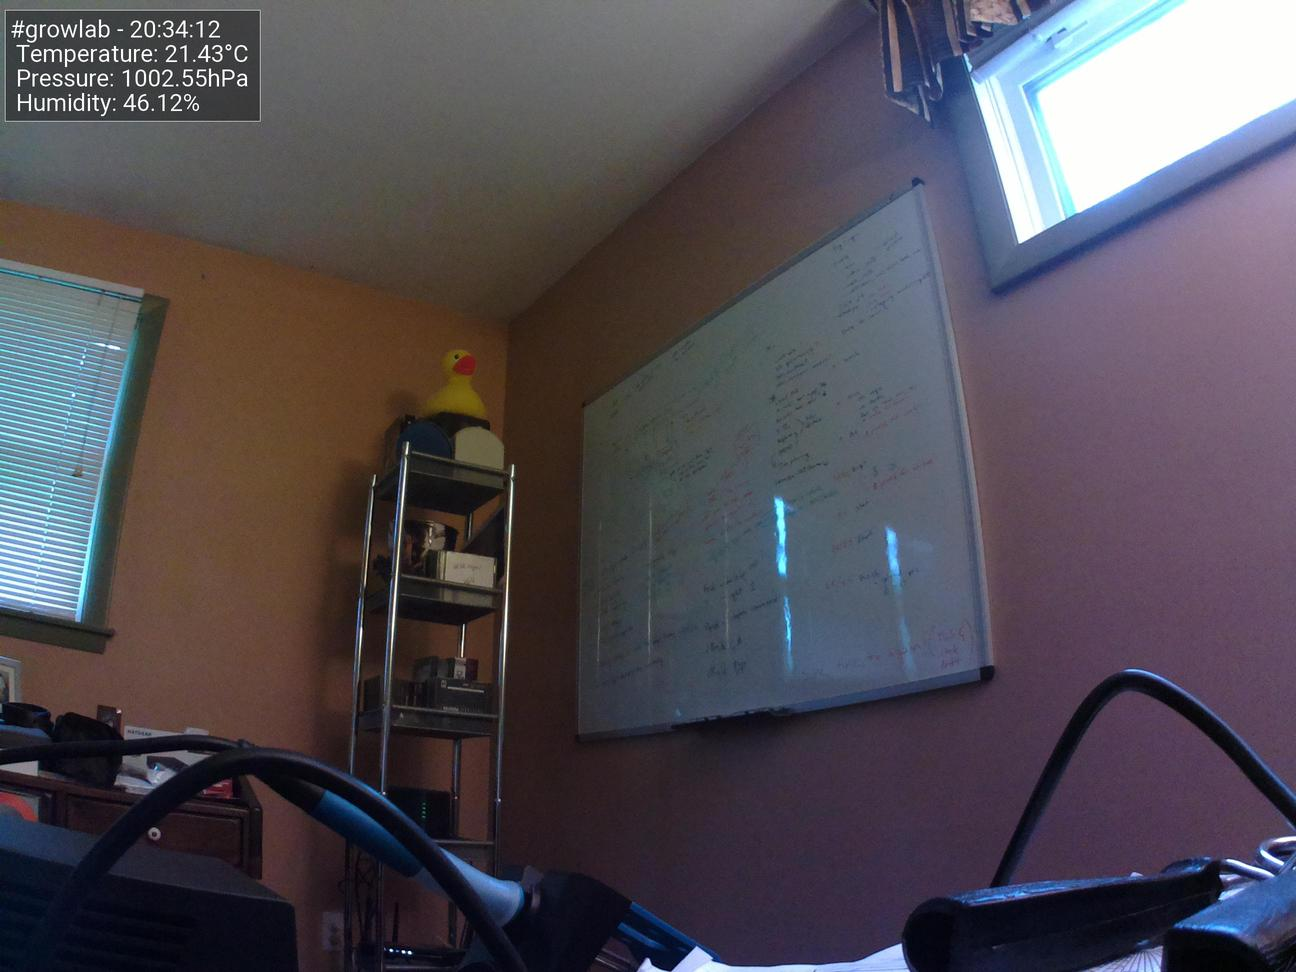
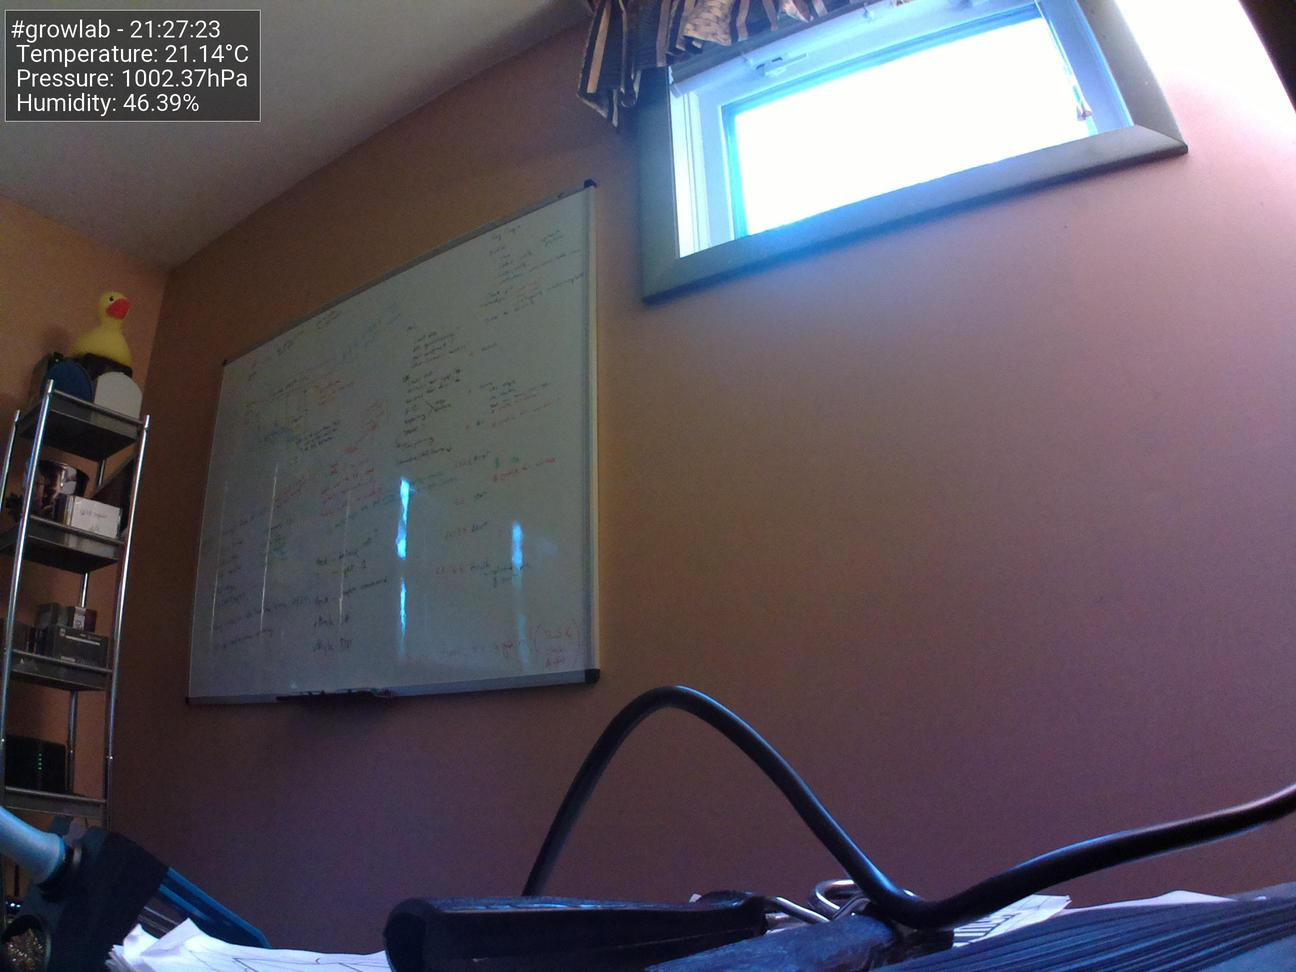
Update images at Sun 30 May 21:28:18 BST 2021

diff --git a/docs/index.html b/docs/index.html
@@ -47,19 +47,19 @@
                         <tbody>
                             <tr>
                                 <td>Time</td>
-                                <td>20:34:12</td>
+                                <td>21:27:23</td>
                             </tr>
                             <tr>
                                 <td>Temperature</td>
-                                <td>21.43°C</td>
+                                <td>21.14°C</td>
                             </tr>
                             <tr>
                                 <td>Humidity</td>
-                                <td>46.12%</td>
+                                <td>46.39%</td>
                             </tr>
                             <tr>
                                 <td>Pressure</td>
-                                <td>1002.55hPa</td>
+                                <td>1002.37hPa</td>
                             </tr>
                         </tbody>
                     </table>
@@ -67,7 +67,7 @@
 
                 <h5>Latest image</h5>
                 <div style="width: 85%;">
-                            <img class="figure-img img-fluid rounded" src="./preview.jpg?uid=1622403260.380998">
+                            <img class="figure-img img-fluid rounded" src="./preview.jpg?uid=1622406452.0146604">
                 </div>
             </div>
         </div>
